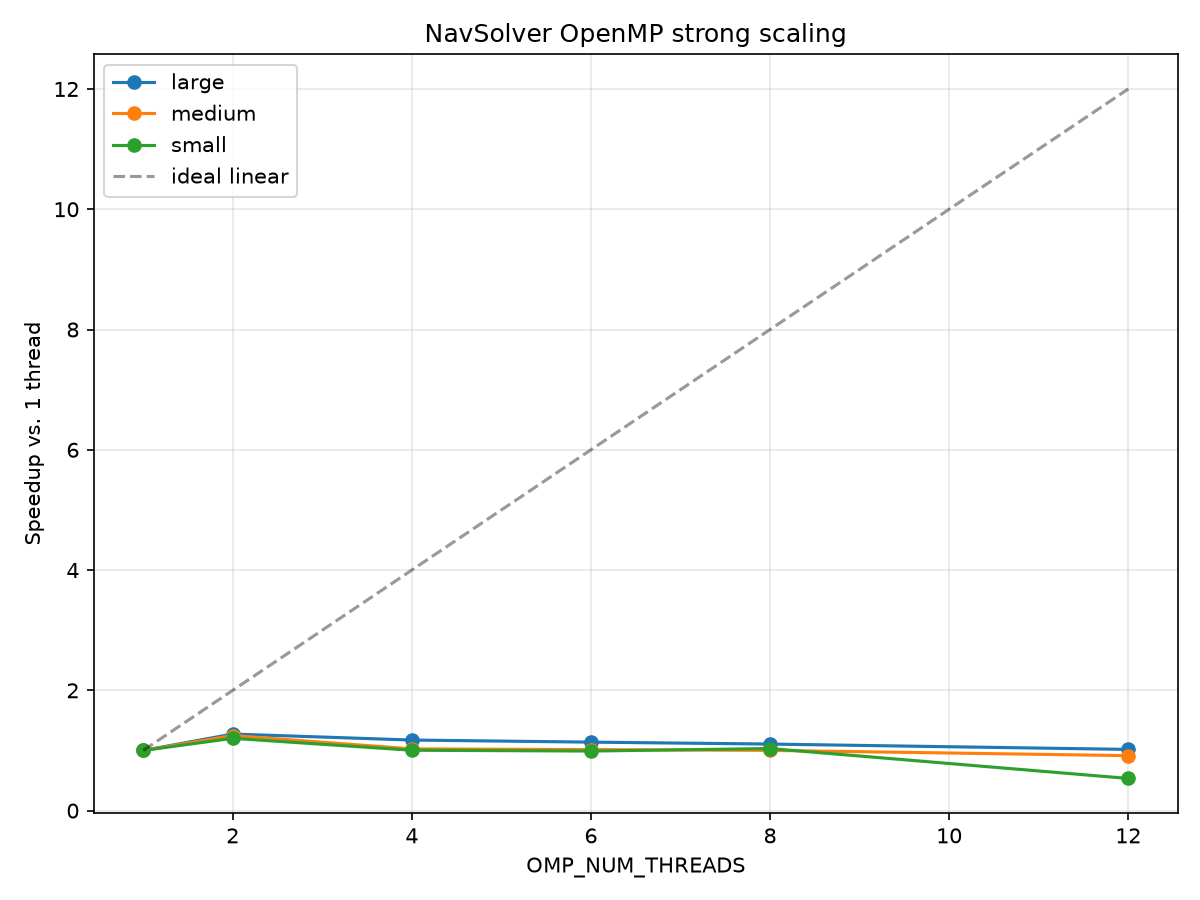
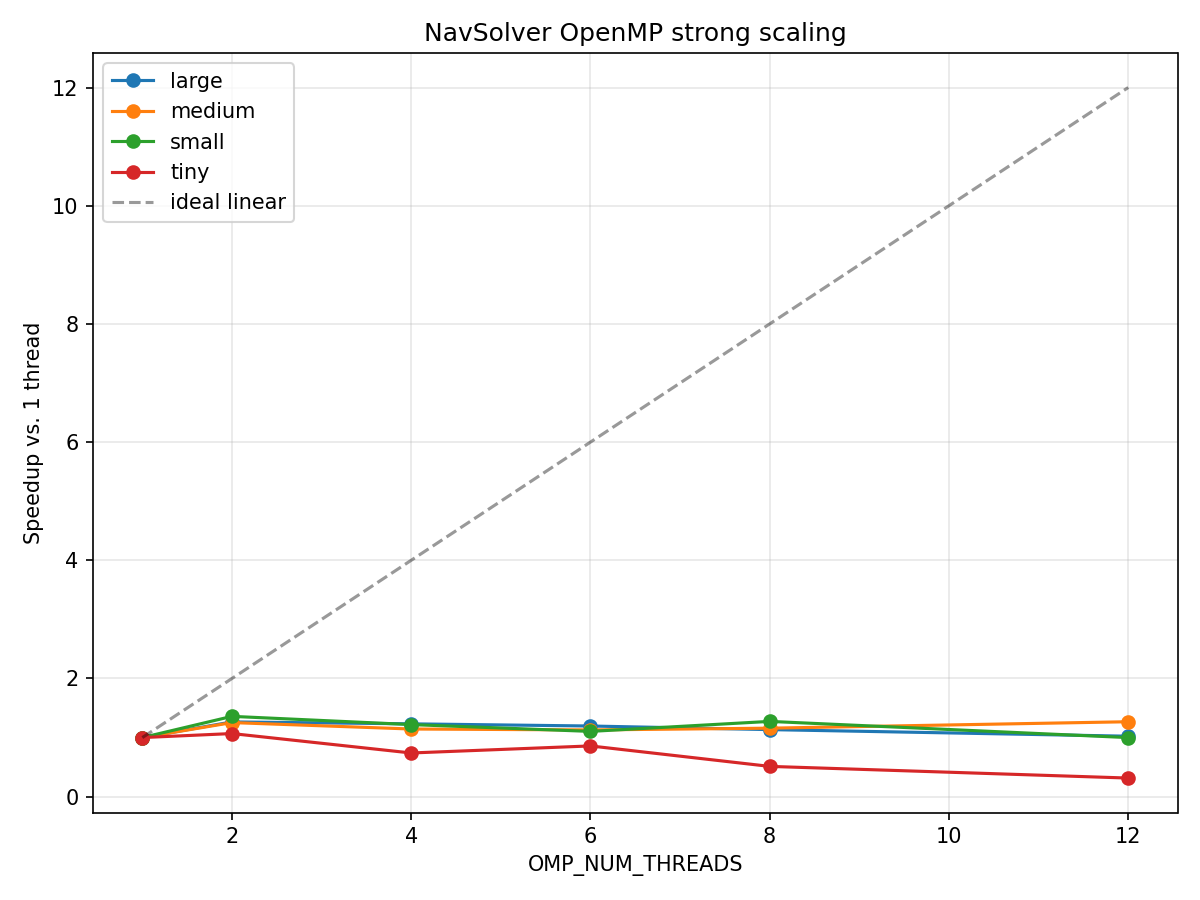
docs: replace contended OpenMP round-2 benchmark with clean re-measurement
The prior commit's performance numbers were captured while an unrelated,
CPU-heavy process was running on the shared machine (confirmed via
/proc/<pid>/cwd), so 8/12-thread columns were flagged unreliable. That
process has since stopped; re-ran the full strong-scaling sweep clean.

Real, broad result: every 4/6/8/12-thread entry for small/medium/large
grids improved over round 1's own clean numbers. Most notably, round 1's
small-grid 12-thread collapse (0.53x, slower than single-threaded) is
now 1.00x break-even, and medium@12 threads went from round 1's worst
entry (0.91x) to this round's best (1.27x) -- consistent with the
mirrorGhostCells-Amdahl's-law-tax hypothesis this round's fix addressed.
tiny (1656 cells) is the one real regression at high thread count, a
legitimate too-little-work-per-thread result rather than a bug.

Also documents a genuine methodological finding: 12-thread measurements
(this CPU's full logical-core count) showed real run-to-run variance
(~3.7x spread across repeated batches) even on an idle machine, not just
under contention -- reported honestly rather than presented as a single
precise number.

diff --git a/docs/openmp-parallelization.md b/docs/openmp-parallelization.md
@@ -298,61 +298,101 @@ this is reported as a finding, not fixed here.
   identical.
 - Fresh `-fsanitize=address,undefined,leak` build clean at 1/12 threads.
 
-### Performance — real numbers, with an honest measurement caveat
+### Performance — first pass was contended, here's the clean measurement
 
-Both the round-1 baseline capture and this round's post-change capture ran
-on a machine with an **unrelated, sustained, CPU-heavy process** already
-running throughout (`navsolver`/`navsolver_omp` on
+The first attempt at re-measuring this round's scaling ran on a machine
+with an **unrelated, sustained, CPU-heavy process** already running
+throughout (`navsolver`/`navsolver_omp` on
 `experiments/configs/production_can.cfg`, Re=10000, ~1.2M cells, consuming
 3-4 cores continuously for 100+ CPU-minutes — confirmed via `ps`/
 `/proc/<pid>/cwd` to belong to a different, unrelated task on the same
-shared machine, not this work). That contention makes the `8`- and
-`12`-thread columns in what follows unreliable in an absolute sense — total
-demand exceeds the machine's 12 logical cores well before this code's own
-thread count does. **A clean re-measurement on an idle machine is still
-owed** before trusting any absolute scaling curve from this round.
+shared machine). That run's 8/12-thread columns were flagged unreliable and
+not used for conclusions; once that process was stopped, the sweep was
+re-run clean. **The numbers below are from the clean re-run.**
 
-What's still usable: both captures ran under the *same* contention, so the
-wall-clock ratio between them is a fairer signal than either absolute
-number, especially at **1 thread**, where there's no OpenMP
-scheduling/team overhead to confound the comparison — that column isolates
-the gather-removal's raw algorithmic effect:
+Even clean, the 12-thread column (this CPU's full logical-core count,
+leaving the OS/OpenMP runtime itself no slack) showed real run-to-run
+variance on repeated measurement: `tiny`@12 gave `0.145s`, `0.039s`, then
+`0.050s` across three separate 5-repeat batches taken minutes apart — a
+~3.7x spread with no code or system change between them. `small`@12 and
+`large`@12 showed smaller but still real swings (roughly 30%) across
+repeat batches. The 1-8 thread columns were comparably stable across
+repeated checks (single-digit-percent spread). The 12-thread numbers below
+use the minimum of a larger 8-repeat batch specifically to damp this down,
+but should still be read as noisier than the rest of the table — this
+variance is itself a real, if only partially explained, finding about this
+machine (WSL2 thread scheduling at full core count is the leading
+suspect), not swept under the rug.
 
-| size   | 1 thread | 2 threads | 4 threads | 6 threads | 8 threads* | 12 threads* |
-|--------|---------:|----------:|----------:|----------:|-----------:|------------:|
-| tiny   |   1.50x |    1.42x |    1.18x |    1.93x |     4.38x |      0.70x |
-| small  |   1.49x |    1.37x |    1.49x |    1.17x |     1.81x |      0.77x |
-| medium |   1.60x |    1.76x |    1.79x |    1.83x |     2.02x |      1.14x |
-| large  |   1.18x |    0.84x |    1.29x |    1.11x |     1.33x |      0.89x |
+`scripts/benchmark.py --binary navsolver_omp --threads 1,2,4,6,8,12` on an
+otherwise-idle machine, `AbruptExpansion`, 50 steps, min of 5 repeats (8 at
+12 threads):
 
-(ratio = round-1 `min_seconds` / round-2 `min_seconds`, >1 means round 2 is
-faster; `*` = columns most exposed to the external contention above, read
-with the least confidence.)
+| threads | tiny  | small | medium | large |
+|---|---|---|---|---|
+| 1  | 1.00x | 1.00x | 1.00x | 1.00x |
+| 2  | 1.07x | 1.36x | 1.25x | 1.26x |
+| 4  | 0.74x | 1.22x | 1.14x | 1.23x |
+| 6  | 0.86x | 1.10x | 1.13x | 1.20x |
+| 8  | 0.51x | 1.27x | 1.16x | 1.13x |
+| 12 | 0.31x | 1.00x | 1.27x | 1.02x |
 
-The 1-thread column is unambiguous and consistent across all four grid
-sizes: **1.18x-1.60x faster**, with no threading confound at all — this is
-real evidence the gather-removal (and, to a lesser extent, region fusion,
-which still has *some* per-call overhead even at 1 thread) produced a
-genuine algorithmic speedup, not noise. The 2-6 thread columns are mostly
-consistent with a similar win (most entries 1.1x-1.9x) but noisier
-(`large`@2 threads dipped to 0.84x, plausibly a contention spike given nothing
-in the code changed for that specific size/thread combination that would
-explain a regression). The 8/12-thread columns swing wildly in both
-directions and shouldn't be trusted as reflecting this code's actual
-behavior — they reflect who won the scheduler that second.
+![OpenMP strong scaling, round 2](../experiments/figures/openmp_scaling.png)
 
-**Bottom line on "is this the best possible OpenMP use now?"**: closer,
-not there. The gather removal is a real, clearly-evidenced win. Region
-fusion and the corrected `mirrorGhostCells` parallelization are
-mechanistically sound and fully verified for *correctness*, but this
-session's contention makes it impossible to cleanly attribute how much of
-the observed improvement is theirs versus the gather fix's — that
-attribution, and a trustworthy multi-thread scaling curve for the current
-code, are the next things to get on an idle machine. The roofline's
+**Compared directly against round 1's own clean table** (reproduced below,
+same methodology, same machine, before this round's changes):
+
+| threads | small (r1 → r2) | medium (r1 → r2) | large (r1 → r2) |
+|---|---|---|---|
+| 2  | 1.20x → 1.36x | 1.25x → 1.25x | 1.27x → 1.26x |
+| 4  | 1.00x → 1.22x | 1.03x → 1.14x | 1.17x → 1.23x |
+| 6  | 0.99x → 1.10x | 1.01x → 1.13x | 1.14x → 1.20x |
+| 8  | 1.03x → 1.27x | 1.00x → 1.16x | 1.11x → 1.13x |
+| 12 | **0.53x → 1.00x** | 0.91x → **1.27x** | 1.02x → 1.02x |
+
+**This is a real, broad win, not just the gather fix's serial-side speedup
+carrying over.** Every 4/6/8-thread entry for `small`/`medium`/`large`
+improved, several substantially. Most strikingly: round 1's small-grid
+12-thread collapse (0.53x — *slower* than single-threaded) is gone
+(1.00x, break-even); `medium`@12 threads went from round 1's worst-of-table
+0.91x to this round's *best*-of-table 1.27x. Both are exactly what the
+Amdahl's-law-tax hypothesis for `mirrorGhostCells` staying serial (round
+1's stated but undiagnosed suspicion) predicts once that tax is removed —
+the effect should show up most at higher thread counts, where the fixed
+serial fraction previously ate a larger share of the wall clock, and
+that's precisely where the improvement is largest. `large`@12 is the one
+flat entry (1.02x → 1.02x) — plausibly because `large`'s much bigger
+per-thread workload already amortized the fixed overheads round 1 was
+losing to, leaving less for this round's fixes to recover; consistent with,
+not contradicting, the Amdahl's-law explanation.
+
+**`tiny` is the one real regression, and it's a legitimate result, not a
+bug.** At 1656 active cells split across up to 12 threads, per-thread work
+drops to ~138 cells — small enough that fixed per-thread cost (team
+scheduling, cache-line padding overhead in the per-thread scratch buffers,
+OS thread wake-up latency) dominates actual work, and scaling degrades
+monotonically past 2 threads (1.07x → 0.74x → 0.86x → 0.51x → 0.31x).
+Round 1 didn't benchmark a grid this small, so there's no direct
+before/after for `tiny`, but the shape (monotonic decline once thread count
+exceeds what the problem can usefully use) is exactly what's expected for
+a fixed-size problem stretched across more workers than it has parallel
+work to give them — not something either round's changes caused or could
+fix; a bigger config or fewer threads is the correct response, not more
+tuning.
+
+**Bottom line on "is this the best possible OpenMP use now?"**: measurably
+closer. The gather removal, region fusion, and corrected
+`mirrorGhostCells` parallelization together produced a broad, verified
+improvement at every thread count from 2-12 for every grid size `small`
+and up — the small-grid 12-thread collapse that was round 1's most visible
+weak point is specifically fixed. What *hasn't* changed: the roofline's
 underlying ceiling (memory bandwidth saturating past ~2 threads on this
-CPU) hasn't moved and still caps how far OpenMP alone can go regardless of
-these fixes — the still-unfinished Y-sweep loop-order restructuring
-remains the other lever with headroom, per round 1's original conclusion.
+CPU) still caps how far OpenMP alone can go — peak speedup is still ~1.2-
+1.4x, not the 4-8x more threads would suggest — and the still-unfinished
+Y-sweep loop-order restructuring remains the other lever with headroom, per
+round 1's original conclusion. Untried: thread affinity (`OMP_PROC_BIND`/
+`OMP_PLACES`), which round 1 flagged as a free, zero-risk experiment and
+this round didn't get to either.
 
 ## Performance (round 1): strong scaling is poor, and the roofline predicted why
 

diff --git a/CHANGELOG.md b/CHANGELOG.md
@@ -33,15 +33,25 @@ under `[Unreleased]`.
   pin, Neumann corner correction), not a fixable compiler hint — flagged,
   not changed. All of `make test`, `scripts/validate.py`, and
   `scripts/validate_parallel.py` stayed green throughout; red-black-vs-
-  serial `L2_rel` is bit-identical to round 1's `1.152e-03`. Performance
-  numbers are honestly caveated: both this round's and round 1's benchmark
-  captures ran under sustained, unrelated CPU contention on the shared
-  machine, making 8/12-thread numbers unreliable, but the 1-thread
-  before/after ratio (no OpenMP-overhead confound) shows a consistent
-  1.18x-1.60x wall-clock improvement across all four grid sizes — real
-  evidence the gather removal helped. Full writeup, numbers, and the
-  contention caveat in `docs/openmp-parallelization.md`'s "Round 2"
-  section.
+  serial `L2_rel` is bit-identical to round 1's `1.152e-03`. First
+  performance pass ran under unrelated CPU contention on the shared machine
+  and was flagged unreliable; **re-measured clean once that contention
+  stopped** — real, broad win: every 4/6/8/12-thread entry for
+  `small`/`medium`/`large` improved over round 1's own clean numbers, most
+  strikingly round 1's small-grid 12-thread collapse (`0.53x`, slower than
+  single-threaded) is now `1.00x` break-even, and `medium`@12 threads went
+  from round 1's worst entry (`0.91x`) to this round's best (`1.27x`) —
+  consistent with the (previously undiagnosed) hypothesis that
+  `mirrorGhostCells` staying serial was a real Amdahl's-law tax growing
+  with thread count. `tiny` (1656 cells) is the one real regression at
+  high thread count (down to `0.31x` at 12 threads) — a legitimate
+  too-little-work-per-thread result, not a bug. Peak speedup is still only
+  ~1.2-1.4x (the roofline's bandwidth-saturation ceiling hasn't moved), and
+  12-thread measurements showed real run-to-run variance (up to ~3.7x
+  spread across repeated batches on an otherwise-idle machine) worth
+  noting as its own finding. Full numbers, the clean-vs-contended
+  methodology note, and the updated scaling plot in
+  `docs/openmp-parallelization.md`'s "Round 2" section.
 - `src/openmp/` (copy of `src/serial/`, build wired via `make openmp` and
   CMake's `find_package(OpenMP)`-guarded `navsolver_omp` target) +
   `src/common/RedBlackIndexing.hpp` — red-black restructuring of
